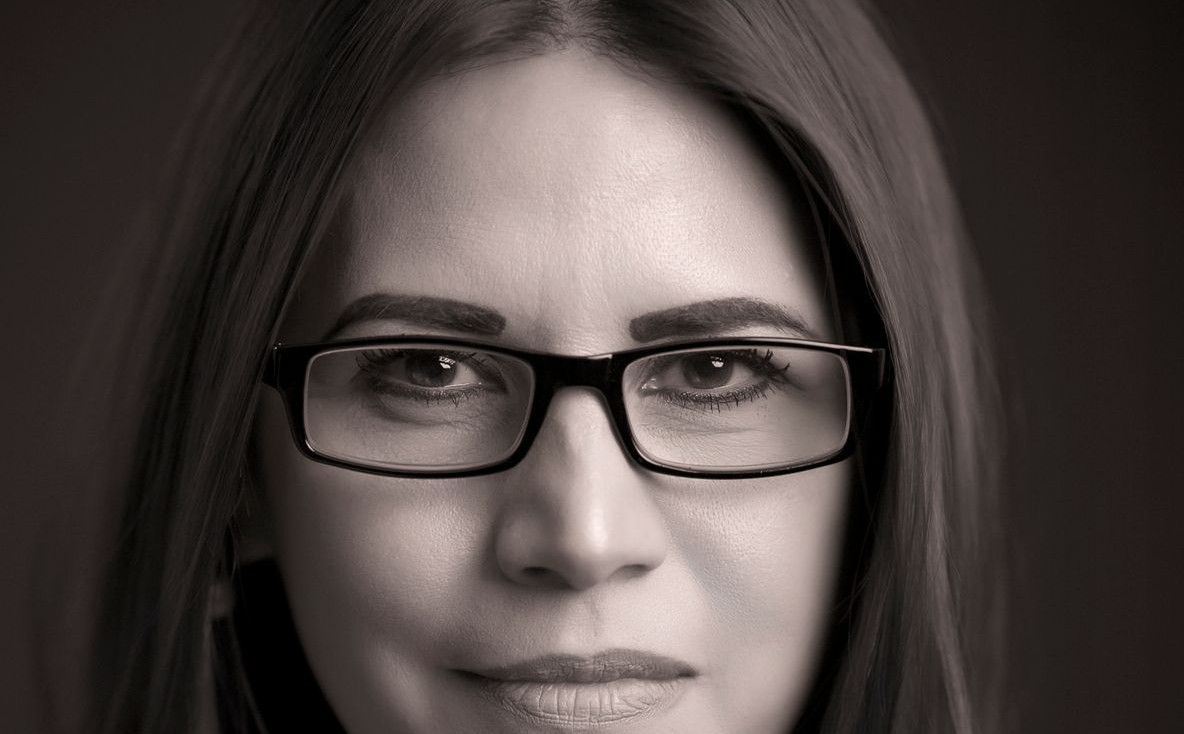
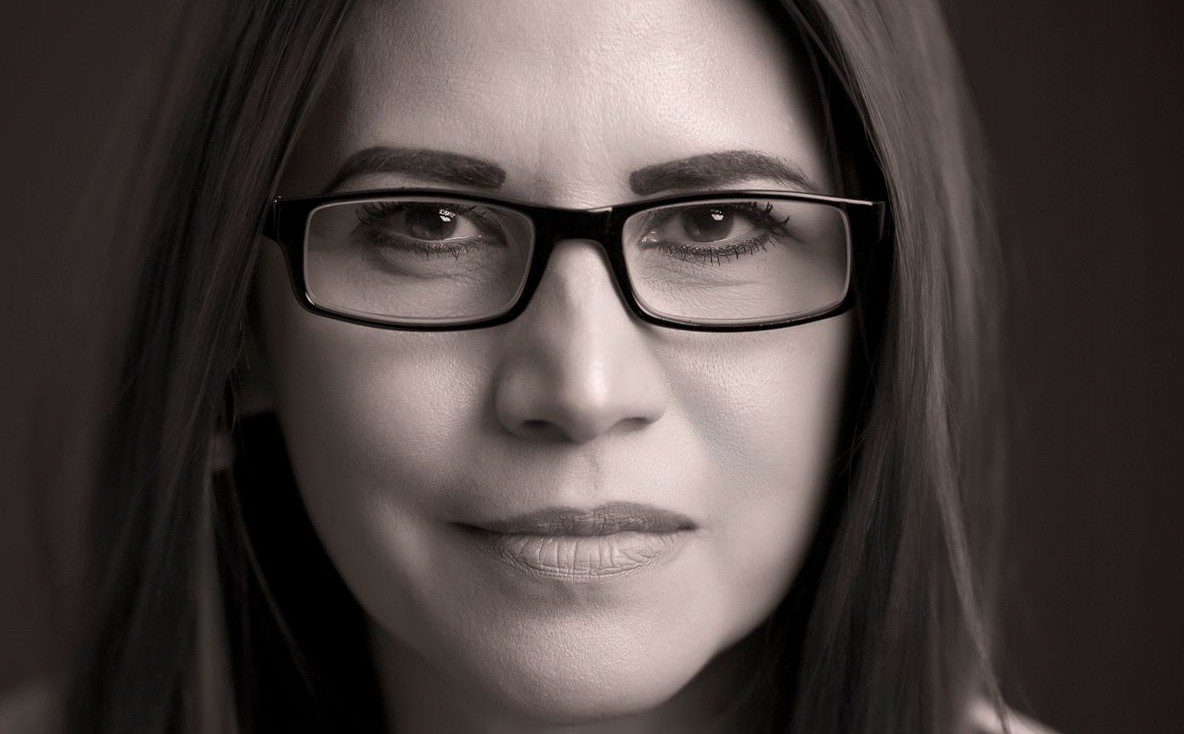
Hero: glasses raised to upper third, refit focus/glow

diff --git a/index.html b/index.html
@@ -98,8 +98,8 @@ header.scrolled .nav__logo img{height:46px}
 .cubes{position:absolute;inset:0;z-index:0}
 .cube{position:absolute;background-repeat:no-repeat;filter:contrast(1.07) brightness(.95);will-change:transform,opacity;opacity:0;backface-visibility:hidden}
 .hero__scrim{position:absolute;inset:0;z-index:1;pointer-events:none;background:linear-gradient(180deg,rgba(16,15,12,.58),rgba(16,15,12,.06) 24%,rgba(16,15,12,.16) 54%,rgba(16,15,12,.9))}
-.hero__glow{position:absolute;inset:0;z-index:1;pointer-events:none;background:radial-gradient(44% 32% at 50% 51%,rgba(224,153,94,.26),transparent 70%);mix-blend-mode:screen}
-.hero__focus{position:absolute;z-index:2;left:50%;top:51%;transform:translate(-50%,-50%);width:min(52vw,520px);height:min(23vh,168px);pointer-events:none;opacity:0;animation:focusIn .9s var(--ease) 2s forwards}
+.hero__glow{position:absolute;inset:0;z-index:1;pointer-events:none;background:radial-gradient(44% 30% at 50% 31%,rgba(224,153,94,.26),transparent 70%);mix-blend-mode:screen}
+.hero__focus{position:absolute;z-index:2;left:50%;top:31%;transform:translate(-50%,-50%);width:min(52vw,520px);height:min(22vh,158px);pointer-events:none;opacity:0;animation:focusIn .9s var(--ease) 2s forwards}
 @keyframes focusIn{to{opacity:1}}
 .hero__focus .b{position:absolute;width:20px;height:20px;border:2px solid var(--accent-2);animation:focusPulse 3s var(--ease) infinite}
 .hero__focus .tl{top:0;left:0;border-right:0;border-bottom:0}.hero__focus .tr{top:0;right:0;border-left:0;border-bottom:0}